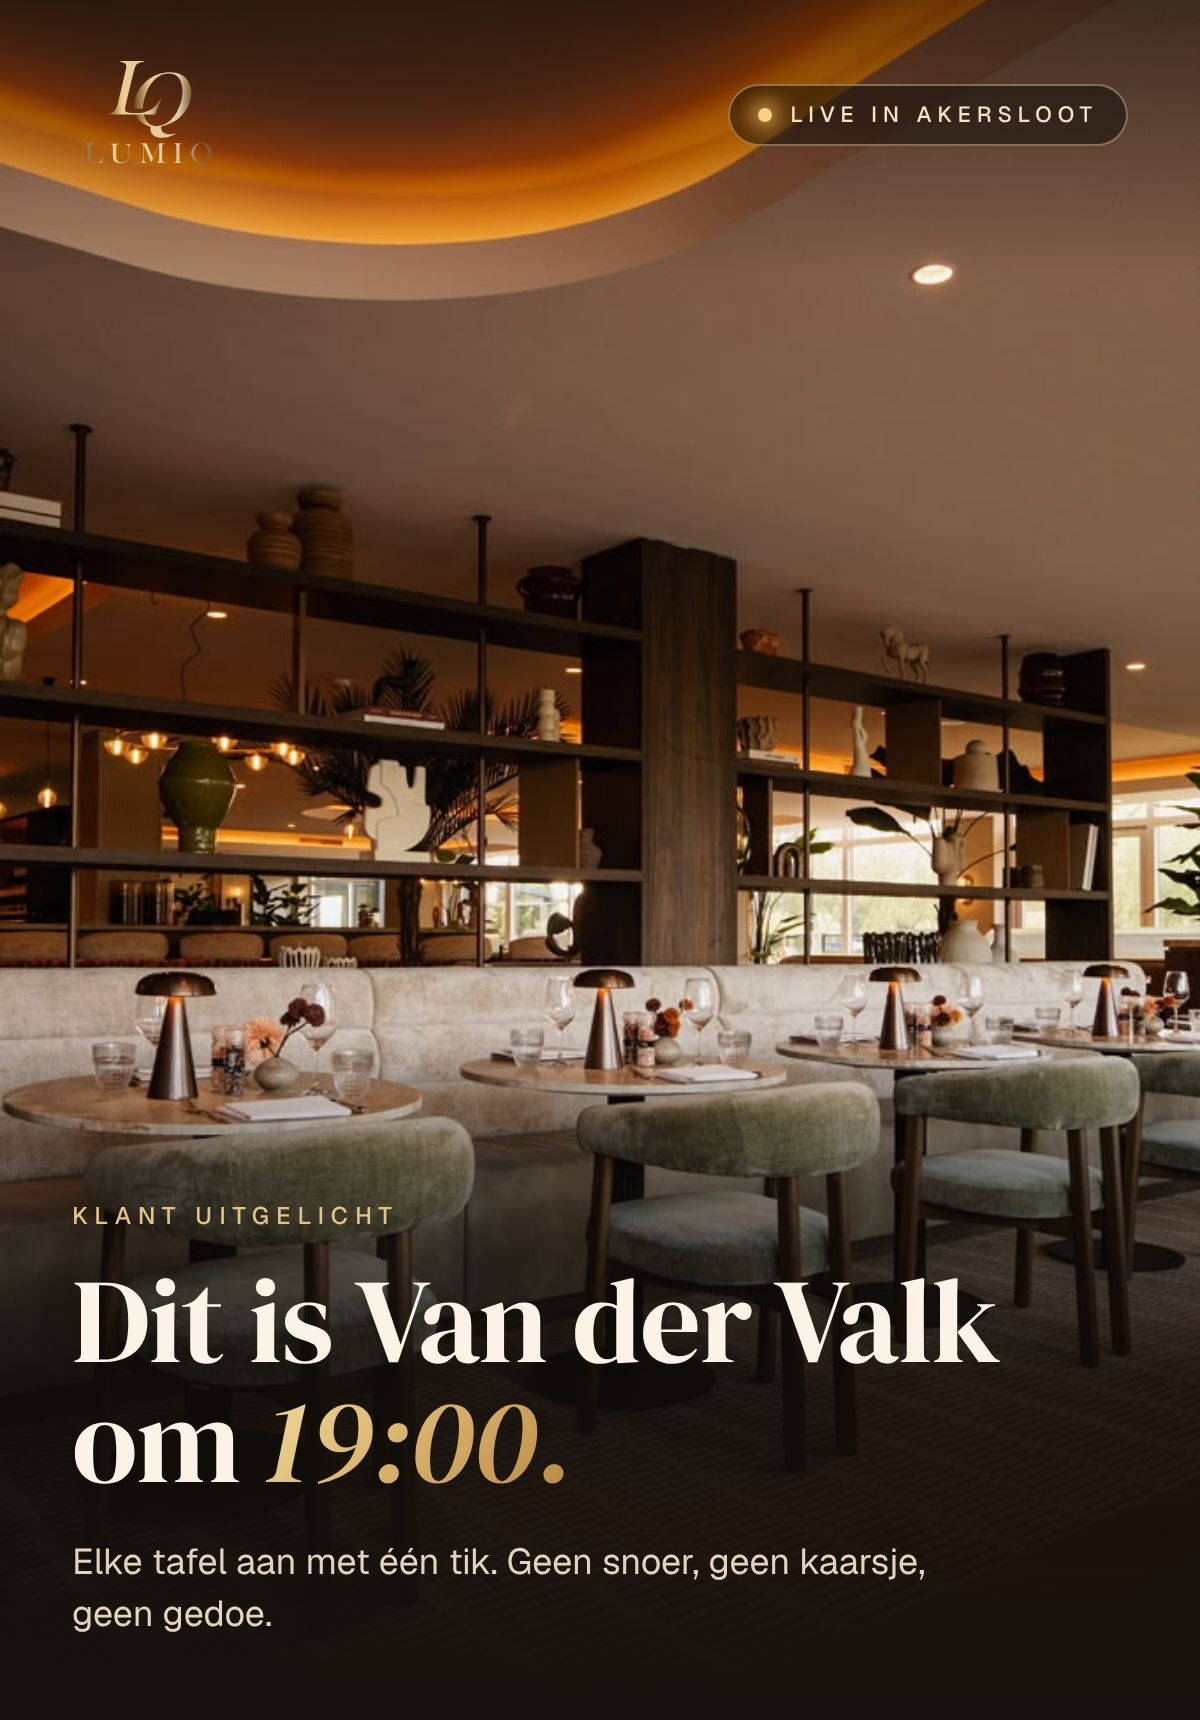
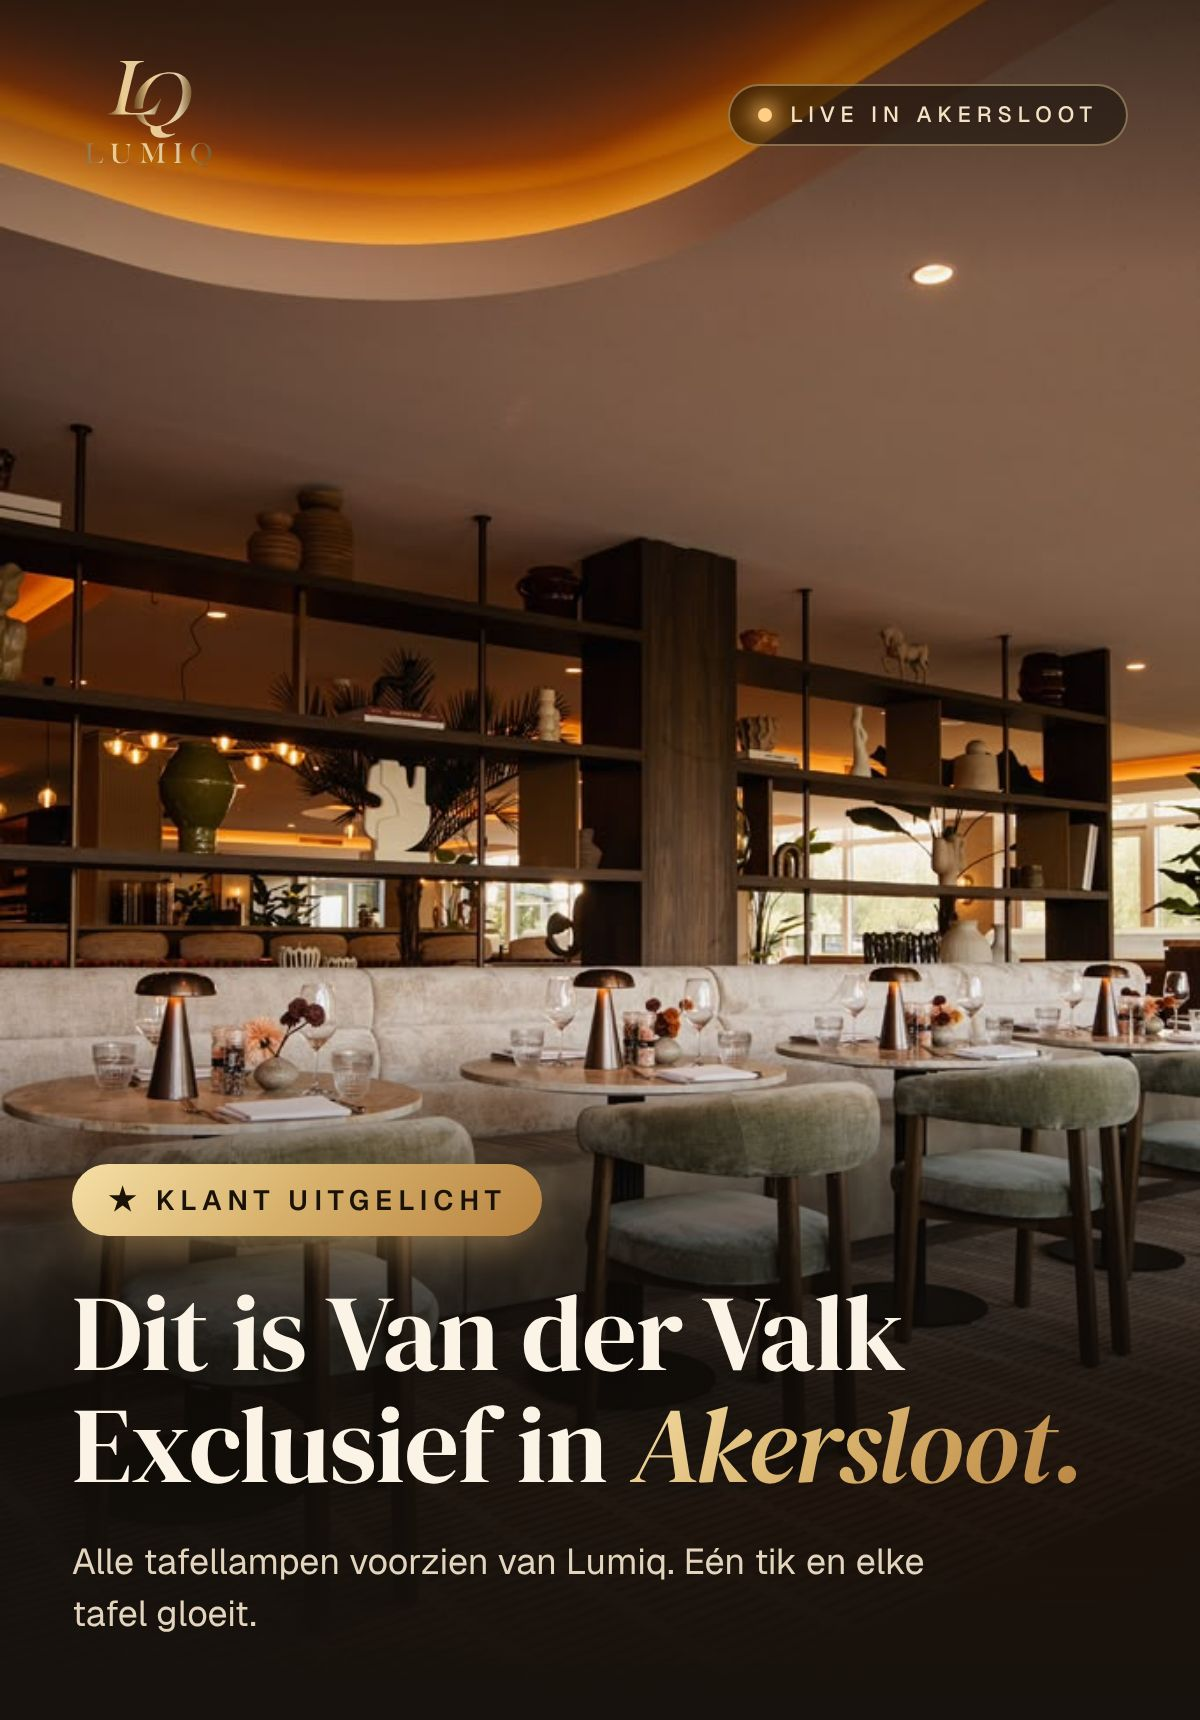
Verkoopmail v3: hook Van der Valk Exclusief in Akersloot, CTA bovenin, CTA's op 1 regel
Claude-Session: https://claude.ai/code/session_01Rg5urhuccQdpdmGCYnhwao

Changed region(s): [[0.0617, 0.6779, 0.8942, 0.8628], [0.0617, 0.8936, 0.7708, 0.9552]]

diff --git a/public/mail/klant-uitgelicht-vdv.html b/public/mail/klant-uitgelicht-vdv.html
@@ -6,7 +6,7 @@
 <meta name="x-apple-disable-message-reformatting">
 <meta name="color-scheme" content="dark light">
 <meta name="supported-color-schemes" content="dark light">
-<title>Dit is Van der Valk om 19:00 | Lumiq</title>
+<title>Dit is Van der Valk Exclusief in Akersloot | Lumiq</title>
 <style>
   body{margin:0;padding:0;background:#0f0b07}
   a{text-decoration:none}
@@ -15,12 +15,12 @@
     .w{width:100%!important}
     .px{padding-left:22px!important;padding-right:22px!important}
     .h2{font-size:30px!important;line-height:36px!important}
-    .btn a{display:block!important}
+    .btn a{padding-left:20px!important;padding-right:20px!important;font-size:15px!important}
   }
 </style>
 </head>
 <body style="margin:0;padding:0;background:#0f0b07">
-<div style="display:none;max-height:0;overflow:hidden;opacity:0;font-size:1px;line-height:1px;color:#0f0b07">Elke tafel aan met één tik. Kijk hoe het restaurant van Van der Valk Akersloot gloeit.&#847;&zwnj;&nbsp;&#847;&zwnj;&nbsp;&#847;&zwnj;&nbsp;&#847;&zwnj;&nbsp;&#847;&zwnj;&nbsp;&#847;&zwnj;&nbsp;&#847;&zwnj;&nbsp;</div>
+<div style="display:none;max-height:0;overflow:hidden;opacity:0;font-size:1px;line-height:1px;color:#0f0b07">Alle tafellampen voorzien van Lumiq. Kijk hoe het restaurant van Van der Valk Exclusief Akersloot gloeit.&#847;&zwnj;&nbsp;&#847;&zwnj;&nbsp;&#847;&zwnj;&nbsp;&#847;&zwnj;&nbsp;&#847;&zwnj;&nbsp;&#847;&zwnj;&nbsp;&#847;&zwnj;&nbsp;</div>
 
 <table role="presentation" width="100%" cellpadding="0" cellspacing="0" border="0" bgcolor="#0f0b07" style="background:#0f0b07">
 <tr><td align="center" style="padding:24px 10px">
@@ -29,7 +29,16 @@
 
   <!-- 1. hero met hook -->
   <tr><td style="padding:0;line-height:0">
-    <a href="https://lumiqstore.com/#klant"><img src="https://lumiqstore.com/media/vdv-mail-hero.jpg" width="600" alt="Dit is Van der Valk om 19:00. Elke tafel aan met één tik. Geen snoer, geen kaarsje, geen gedoe." style="width:100%;max-width:600px;height:auto"></a>
+    <a href="https://lumiqstore.com/#klant"><img src="https://lumiqstore.com/media/vdv-mail-hero.jpg" width="600" alt="Klant uitgelicht: dit is Van der Valk Exclusief in Akersloot. Alle tafellampen voorzien van Lumiq." style="width:100%;max-width:600px;height:auto"></a>
+  </td></tr>
+
+  <!-- CTA bovenin -->
+  <tr><td align="center" style="padding:6px 36px 30px">
+        <table role="presentation" cellpadding="0" cellspacing="0" border="0" class="btn" align="center"><tr>
+          <td align="center" bgcolor="#d9b46f" style="border-radius:12px;background:#d9b46f;background-image:linear-gradient(135deg,#f6dfa6,#d9b46f 45%,#b8833f)">
+            <a href="https://lumiqstore.com/#offerte" style="display:inline-block;padding:16px 28px;font-family:Arial,Helvetica,sans-serif;font-size:16px;font-weight:bold;color:#1a1209;border-radius:12px;white-space:nowrap">Benieuwd? Bekijk wat er kan&nbsp;&rarr;</a>
+          </td>
+        </tr></table>
   </td></tr>
 
   <!-- 2. collage -->
@@ -39,7 +48,7 @@
 
   <!-- 3. kort verhaal -->
   <tr><td class="px" style="padding:34px 36px 0;font-family:Arial,Helvetica,sans-serif;font-size:17px;line-height:27px;color:#d7c9b1">
-    <p style="margin:0 0 16px"><strong style="color:#fbf3e6">Van der Valk Akersloot koos voor Lumiq.</strong> Op elke tafel, in de nissen en aan de lange tafel brandt nu een draadloze lamp. Ze gaan allemaal tegelijk aan, met één tik vanaf de bar.</p>
+    <p style="margin:0 0 16px"><strong style="color:#fbf3e6">Van der Valk Exclusief Akersloot koos voor Lumiq.</strong> Op elke tafel, in de nissen en aan de lange tafel brandt nu een draadloze lamp. Ze gaan allemaal tegelijk aan, met één tik vanaf de bar.</p>
     <p style="margin:0">Gasten zien sfeer. Het team ziet geen snoeren, geen kaarsjes en geen gedoe.</p>
   </td></tr>
 
@@ -47,7 +56,7 @@
   <tr><td class="px" style="padding:24px 36px 0">
     <table role="presentation" cellpadding="0" cellspacing="0" border="0"><tr>
       <td style="padding:0 14px 0 0"><img src="https://lumiqstore.com/media/logo-valk-exclusief.jpg" width="48" height="48" alt="Valk Exclusief" style="width:48px;height:48px;border-radius:8px"></td>
-      <td style="font-family:Arial,Helvetica,sans-serif;font-size:13px;line-height:19px;color:#bdae95">Ingericht door Lumiq<br><span style="color:#f6ead6;font-weight:bold">Van der Valk Hotel Akersloot</span></td>
+      <td style="font-family:Arial,Helvetica,sans-serif;font-size:13px;line-height:19px;color:#bdae95">Tafellampen voorzien van Lumiq<br><span style="color:#f6ead6;font-weight:bold">Van der Valk Exclusief Akersloot</span></td>
     </tr></table>
   </td></tr>
 
@@ -60,7 +69,7 @@
         <p style="margin:0 0 24px;font-family:Arial,Helvetica,sans-serif;font-size:15px;line-height:23px;color:#bdae95">Vertel ons hoeveel tafels je hebt.<br>Binnen 24 uur heb je een voorstel.</p>
         <table role="presentation" cellpadding="0" cellspacing="0" border="0" class="btn" align="center"><tr>
           <td align="center" bgcolor="#d9b46f" style="border-radius:12px;background:#d9b46f;background-image:linear-gradient(135deg,#f6dfa6,#d9b46f 45%,#b8833f)">
-            <a href="https://lumiqstore.com/#offerte" style="display:inline-block;padding:18px 36px;font-family:Arial,Helvetica,sans-serif;font-size:17px;font-weight:bold;color:#1a1209;border-radius:12px">Ja, laat zien wat er kan &rarr;</a>
+            <a href="https://lumiqstore.com/#offerte" style="display:inline-block;padding:17px 30px;font-family:Arial,Helvetica,sans-serif;font-size:16px;font-weight:bold;color:#1a1209;border-radius:12px;white-space:nowrap">Bekijk wat er kan&nbsp;&rarr;</a>
           </td>
         </tr></table>
         <p style="margin:18px 0 0;font-family:Arial,Helvetica,sans-serif;font-size:14px;line-height:22px">
